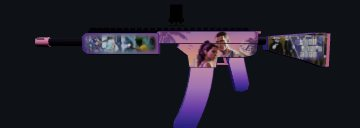
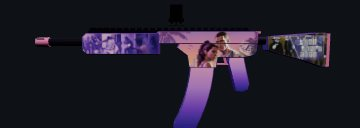
Vice Grin final: colour-graded handguard instead of the soft edge
The user wanted the handguard's alley art to really blend, not just fade
at the edges. The soft-edge blend is undone (back to the user's own crop)
and the art is colour graded into the skin's sunset palette instead:
shadows to indigo, mid-tones to purple, highlights to lavender/pink, with
20% of the original colour left in (gta6-troll-skin-part-vice80.jpg; the
full grade is kept alongside as gta6-troll-skin-part-vice.jpg).

Changed region(s): [[0.2139, 0.25, 0.4583, 0.4375]]

diff --git a/assets/games/troll-ops/skins.js b/assets/games/troll-ops/skins.js
@@ -275,11 +275,11 @@ export const SKINS = [
     blurb: "Leonida sunset, fully loaded.",
     final: true,
     palette: { trim: "#6c3f8e", ink: "#fff4e8", metal: 0x2b2233, accent: 0xff8fb8 },
-    art: { grip: "vice-gradient.jpg", mag: "vice-gradient.jpg", stock: "troll-crew-san-andreas.jpg", handguard: "vice-handguard-blend.jpg" },
-    layers: { handguard: [{ id: "hgart1", file: "skin-art/gta6-troll-skin-part.jpg", src: [0.2475, 0.3255, 0.7525, 0.5663], at: [0.5, 0.5, 1], feather: 0.35 }], receiver: [{ file: "banners/banner-11.jpg", src: [0.345, 0, 1, 1], at: [0.923, 0.587, 0.875], feather: 0.65, opacity: 0.65, id: "rkn0gy", mask: "vice-rkn0gy-mujaulpy.png", lock: 1 }], stock: [{ id: "8osvw2", file: "skin-art/vice-robbery-troll.jpg", src: [0.044, 0.05, 0.376, 0.486], at: [0.64, 0.42, 0.676], text: 1, feather: 0.15, opacity: 0.65, lock: 1, mask: "vice-8osvw2-mukhm6ar.png" }] },
+    art: { grip: "vice-gradient.jpg", mag: "vice-gradient.jpg", stock: "troll-crew-san-andreas.jpg", handguard: "gta6-troll-skin-part-vice80.jpg" },
+    layers: { receiver: [{ file: "banners/banner-11.jpg", src: [0.345, 0, 1, 1], at: [0.923, 0.587, 0.875], feather: 0.65, opacity: 0.65, id: "rkn0gy", mask: "vice-rkn0gy-mujaulpy.png", lock: 1 }], stock: [{ id: "8osvw2", file: "skin-art/vice-robbery-troll.jpg", src: [0.044, 0.05, 0.376, 0.486], at: [0.64, 0.42, 0.676], text: 1, feather: 0.15, opacity: 0.65, lock: 1, mask: "vice-8osvw2-mukhm6ar.png" }] },
     crops: {
       receiver: [0.5, 0.344, 1],
-      handguard: [0.5, 0.5, 1],
+      handguard: [0.5, 0.446, 0.505],
       stock: [0.489, 0.627, 0.977],
       grip: [0.5, 0.5, 0.59],
       mag: [0.5, 0.5, 0.61],
